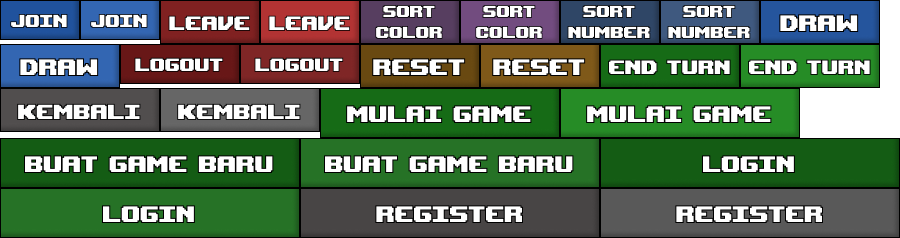
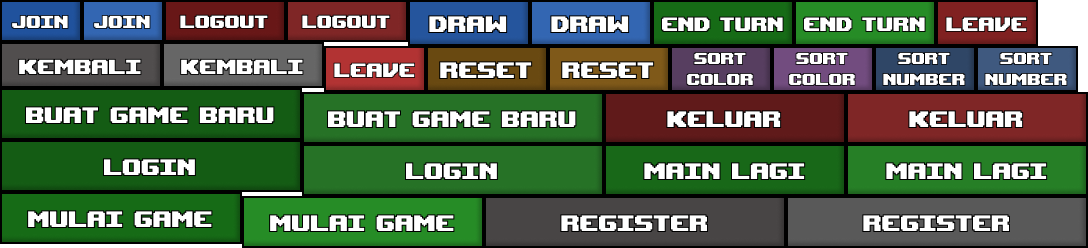
Main lagi sama Keluar buttons

diff --git a/Game/core/src/main/java/com/rummikub/screens/GameOverScreen.java b/Game/core/src/main/java/com/rummikub/screens/GameOverScreen.java
@@ -64,9 +64,9 @@ public class GameOverScreen extends BaseScreen {
         participantList.setColor(Color.LIGHT_GRAY);
 
         // ---- Buttons ----
-        TextButton playAgainButton = makeButton("MAIN LAGI", new Color(0.15f, 0.50f, 0.15f, 1f));
-        TextButton exitButton      = makeButton("KELUAR",    new Color(0.50f, 0.15f, 0.15f, 1f));
-
+        com.badlogic.gdx.scenes.scene2d.ui.Button playAgainButton = makeImageButton("btn_mainlagi");
+        com.badlogic.gdx.scenes.scene2d.ui.Button exitButton = makeImageButton("btn_keluar");
+        
         // ---- Layout ----
         Table table = new Table();
         table.setFillParent(true);
@@ -76,8 +76,8 @@ public class GameOverScreen extends BaseScreen {
         table.add(winnerLabel).padBottom(30).row();
         table.add(participantsTitle).left().padBottom(8).row();
         table.add(participantList).left().padBottom(30).row();
-        table.add(playAgainButton).width(200).height(50).padBottom(12).row();
-        table.add(exitButton).width(200).height(50).row();
+        table.add(playAgainButton).padBottom(12).row();
+        table.add(exitButton).row();
 
         stage.addActor(table);
 
